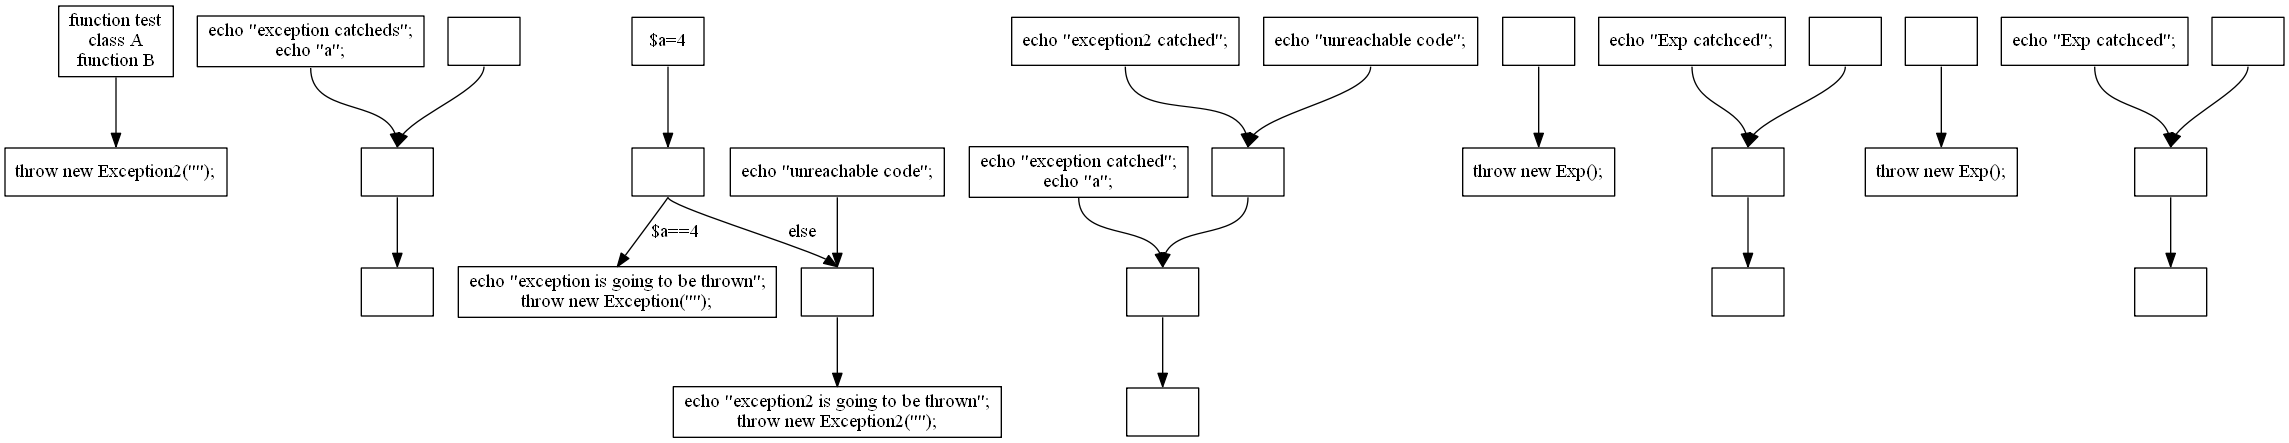
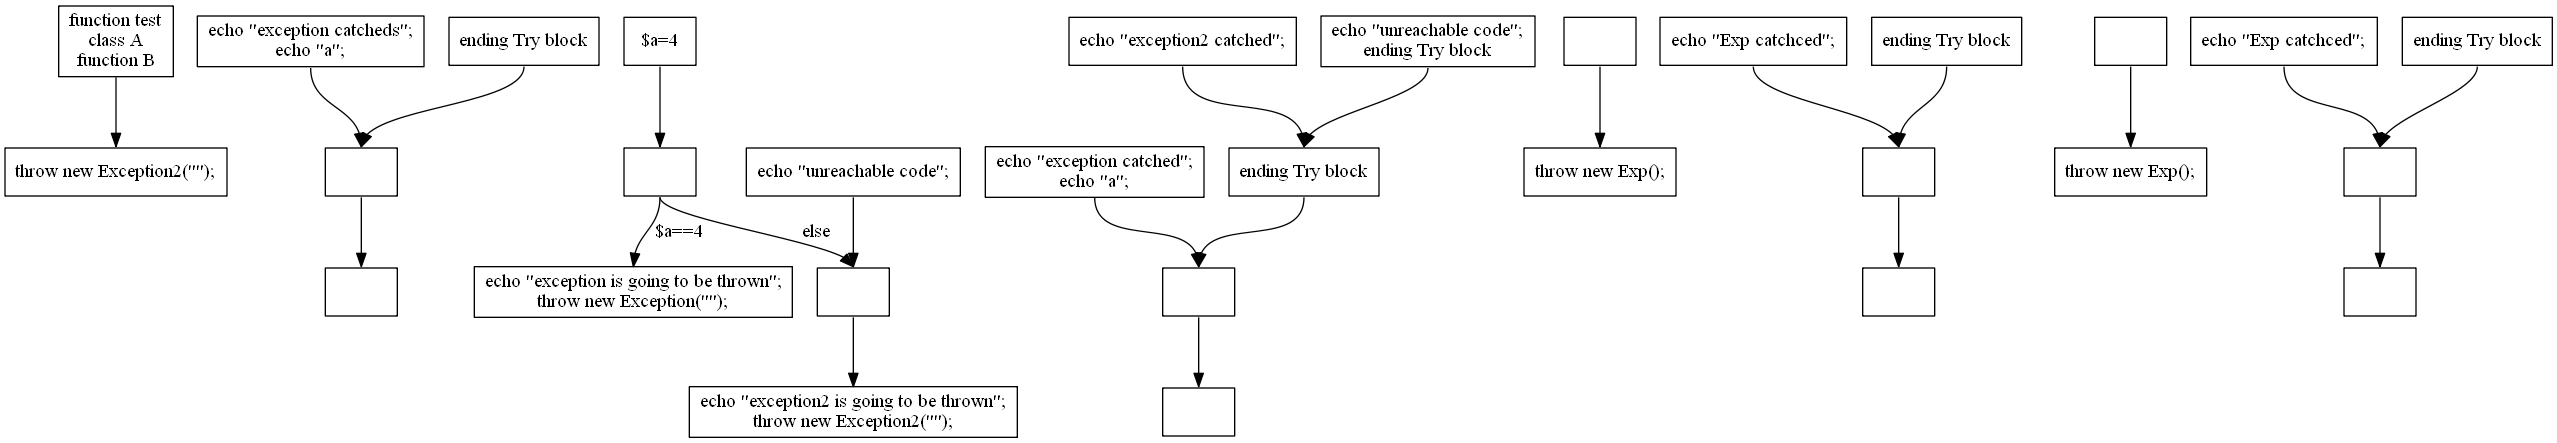
WEV-4 Control flow oznacenie konca try bloku
git-svn-id: svn+ssh://aiya.ms.mff.cuni.cz/var/svn/weverca/trunk@335 67bba403-d36b-46c0-a350-761a85a4c57d

diff --git a/VSProjects/Realisation/Weverca.ControlFlowGraph/BasicBlock.cs b/VSProjects/Realisation/Weverca.ControlFlowGraph/BasicBlock.cs
@@ -33,6 +33,11 @@ namespace Weverca.ControlFlowGraph
         /// The default branch for the direct unconditional connection between basic blocks
         /// </summary>
         public DirectEdge DefaultBranch;
+        
+        /// <summary>
+        /// Hold the references of the basic block which ends with this basic block
+        /// </summary>
+        public List<TryBasicBlock> EndIngTryBlocks;
 
         /// <summary>
         /// Initializes a new instance of the <see cref="BasicBlock"/> class.
@@ -43,6 +48,7 @@ namespace Weverca.ControlFlowGraph
             OutgoingEdges = new List<ConditionalEdge>();
             IncommingEdges = new List<IBasicBlockEdge>();
             DefaultBranch = null;
+            EndIngTryBlocks = new List<TryBasicBlock>();
         }
 
 

diff --git a/VSProjects/Realisation/Weverca.ControlFlowGraph/ControlFlowGraph.cs b/VSProjects/Realisation/Weverca.ControlFlowGraph/ControlFlowGraph.cs
@@ -265,7 +265,10 @@ namespace Weverca.ControlFlowGraph
                         label += globalCode.SourceUnit.GetSourceCode(statement.Position) + Environment.NewLine;
                     }
                 }
-
+                if (node.EndIngTryBlocks.Count > 0)
+                {
+                    label += "ending Try block";
+                }
                 label = label.Replace("\"", "\\\"");
                 result += "node" + i + "[label=\"" + label + "\"]" + Environment.NewLine;
                 i++;

diff --git a/VSProjects/Realisation/Weverca.ControlFlowGraph/CFGVisitor.cs b/VSProjects/Realisation/Weverca.ControlFlowGraph/CFGVisitor.cs
@@ -842,6 +842,7 @@ namespace Weverca.ControlFlowGraph
            
             //throwBlocks.Push(new List<BasicBlock>());
             VisitStatementList(x.Statements);
+            currentBasicBlock.EndIngTryBlocks.Add(tryBlock);
             DirectEdge.MakeNewAndConnect(currentBasicBlock, followingBlock);
             
             

diff --git a/PHP_sources/empty_try_try_test.php b/PHP_sources/empty_try_try_test.php
@@ -1,0 +1,22 @@
+<?
+
+try{
+	try{
+		try{
+		$x=4;
+		}
+		catch(Exception $e){
+			echo "exception catched";
+			echo "a";
+		}
+	}
+	catch(Exception $e){
+		echo "exception catched";
+		echo "a";
+	}
+}
+catch(Exception $e){
+	echo "exception catched";
+	echo "a";
+}
+?>
